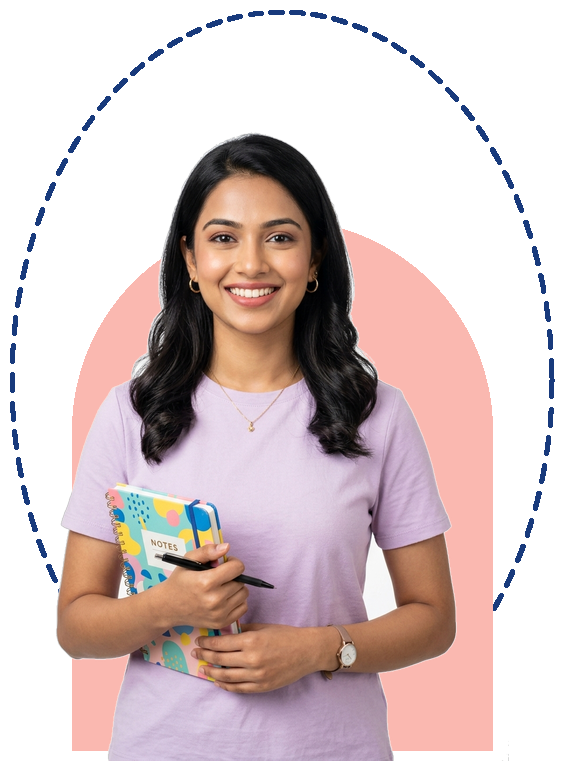
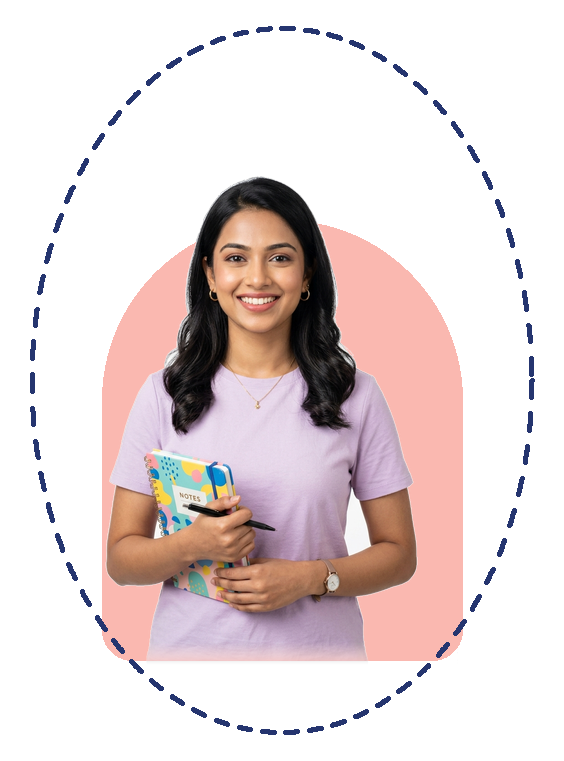
fix: perfectly align Indian student inside smooth arch and continuous dashed oval line

diff --git a/index.html b/index.html
@@ -772,7 +772,7 @@ img:is([sizes=auto i],[sizes^="auto," i]){contain-intrinsic-size:3000px 1500px}
 				<div class="row">
 					<div class="col-12 col-lg-6">
 						<div class="image-box">
-							<img src="assets/images/student-girl-img-1.png?v=4" alt="">
+							<img src="assets/images/student-girl-img-1.png?v=5" alt="Solvanta Career Student">
 						</div>
 					</div>
 					<div class="col-12 col-lg-6">
